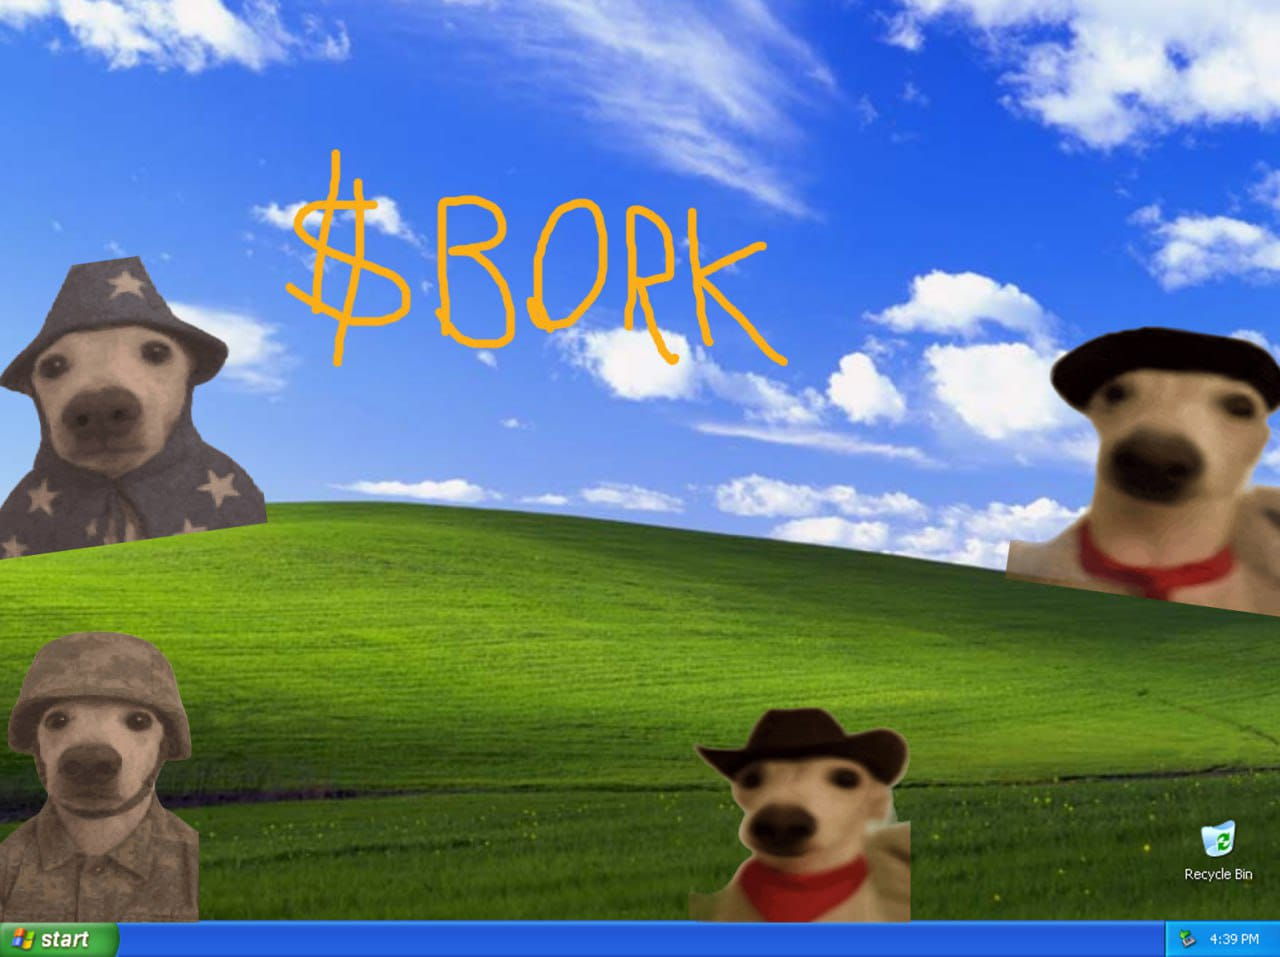
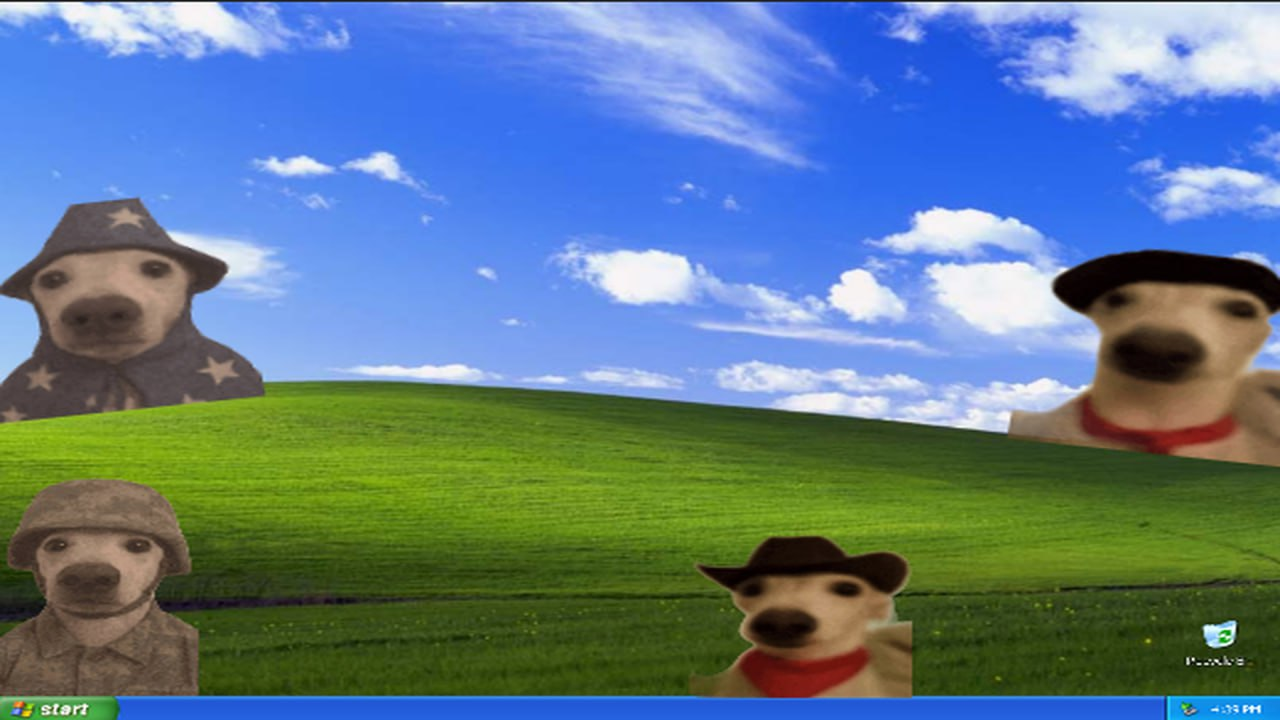
Fix

diff --git a/src/components/Hero.jsx b/src/components/Hero.jsx
@@ -2,25 +2,23 @@ import React from "react";
 
 export default function Hero() {
   return (
-    <section className="hero-trash relative pt-28 pb-24 overflow-hidden">
+    <section className="hero-trash relative overflow-hidden aspect-[16/9] md:aspect-[16/9]">
       {/* duct-tape chaos */}
       <div className="tape left-6 top-6 rotate-[8deg]" />
       <div className="tape right-12 top-4 -rotate-[12deg]" />
       <div className="tape left-1/2 bottom-8 rotate-[3deg]" />
       <div className="tape left-10 bottom-6 -rotate-[6deg]" />
 
-      <div className="mx-auto max-w-6xl px-4">
+      <div className="mx-auto max-w-6xl px-4 pt-6 md:pt-16 lg:pt-24">
         <div className="grid md:grid-cols-2 gap-10 items-center">
-          {/* LEFT — text exactly from the original Hero */}
+          {/* LEFT — text */}
           <div>
-            {/* Keep scribbly/handwritten look from the second file */}
-            {/* <h1 className="scribble-heading text-ink">$BORK</h1> */}
+            <h1 className="scribble-heading font-clean">$BORK</h1>
 
             <p className="mt-4 font-clean text-3xl md:text-4xl font-semibold tracking-tight leading-snug text-ink">
               $BORK – Sniffed the wrong butt and unlocked DeFi on Kaspa
             </p>
 
-            {/* Keep the second file's sticky-note link styling, just change labels */}
             <div className="mt-6 flex items-center gap-4">
               <a
                 href="#borklist"

diff --git a/src/index.css b/src/index.css
@@ -39,9 +39,9 @@ body {
   background-image: url("/src/assets/bliss.jpg"), var(--paper), var(--dots),
     var(--scribble);
   background-size: cover, 100% 100%, 12px 12px, 240px 240px;
-  background-blend-mode: normal, multiply, normal, normal;
+  background-repeat: no-repeat, repeat, repeat, repeat;
+  background-position: center top, center, center, center;
 }
-
 /* Torn paper container */
 .torn {
   position: relative;

diff --git a/src/components/HowToJoin.jsx b/src/components/HowToJoin.jsx
@@ -3,7 +3,6 @@ import dogshit from "../assets/dogshit.svg";
 import bork from "../assets/bork.jpg";
 
 const steps = [
-  // EXACT COPY from the second file (do not edit)
   {
     title: "Install Wallet",
     body: "Install an EVM-compatible wallet (MetaMask).",
